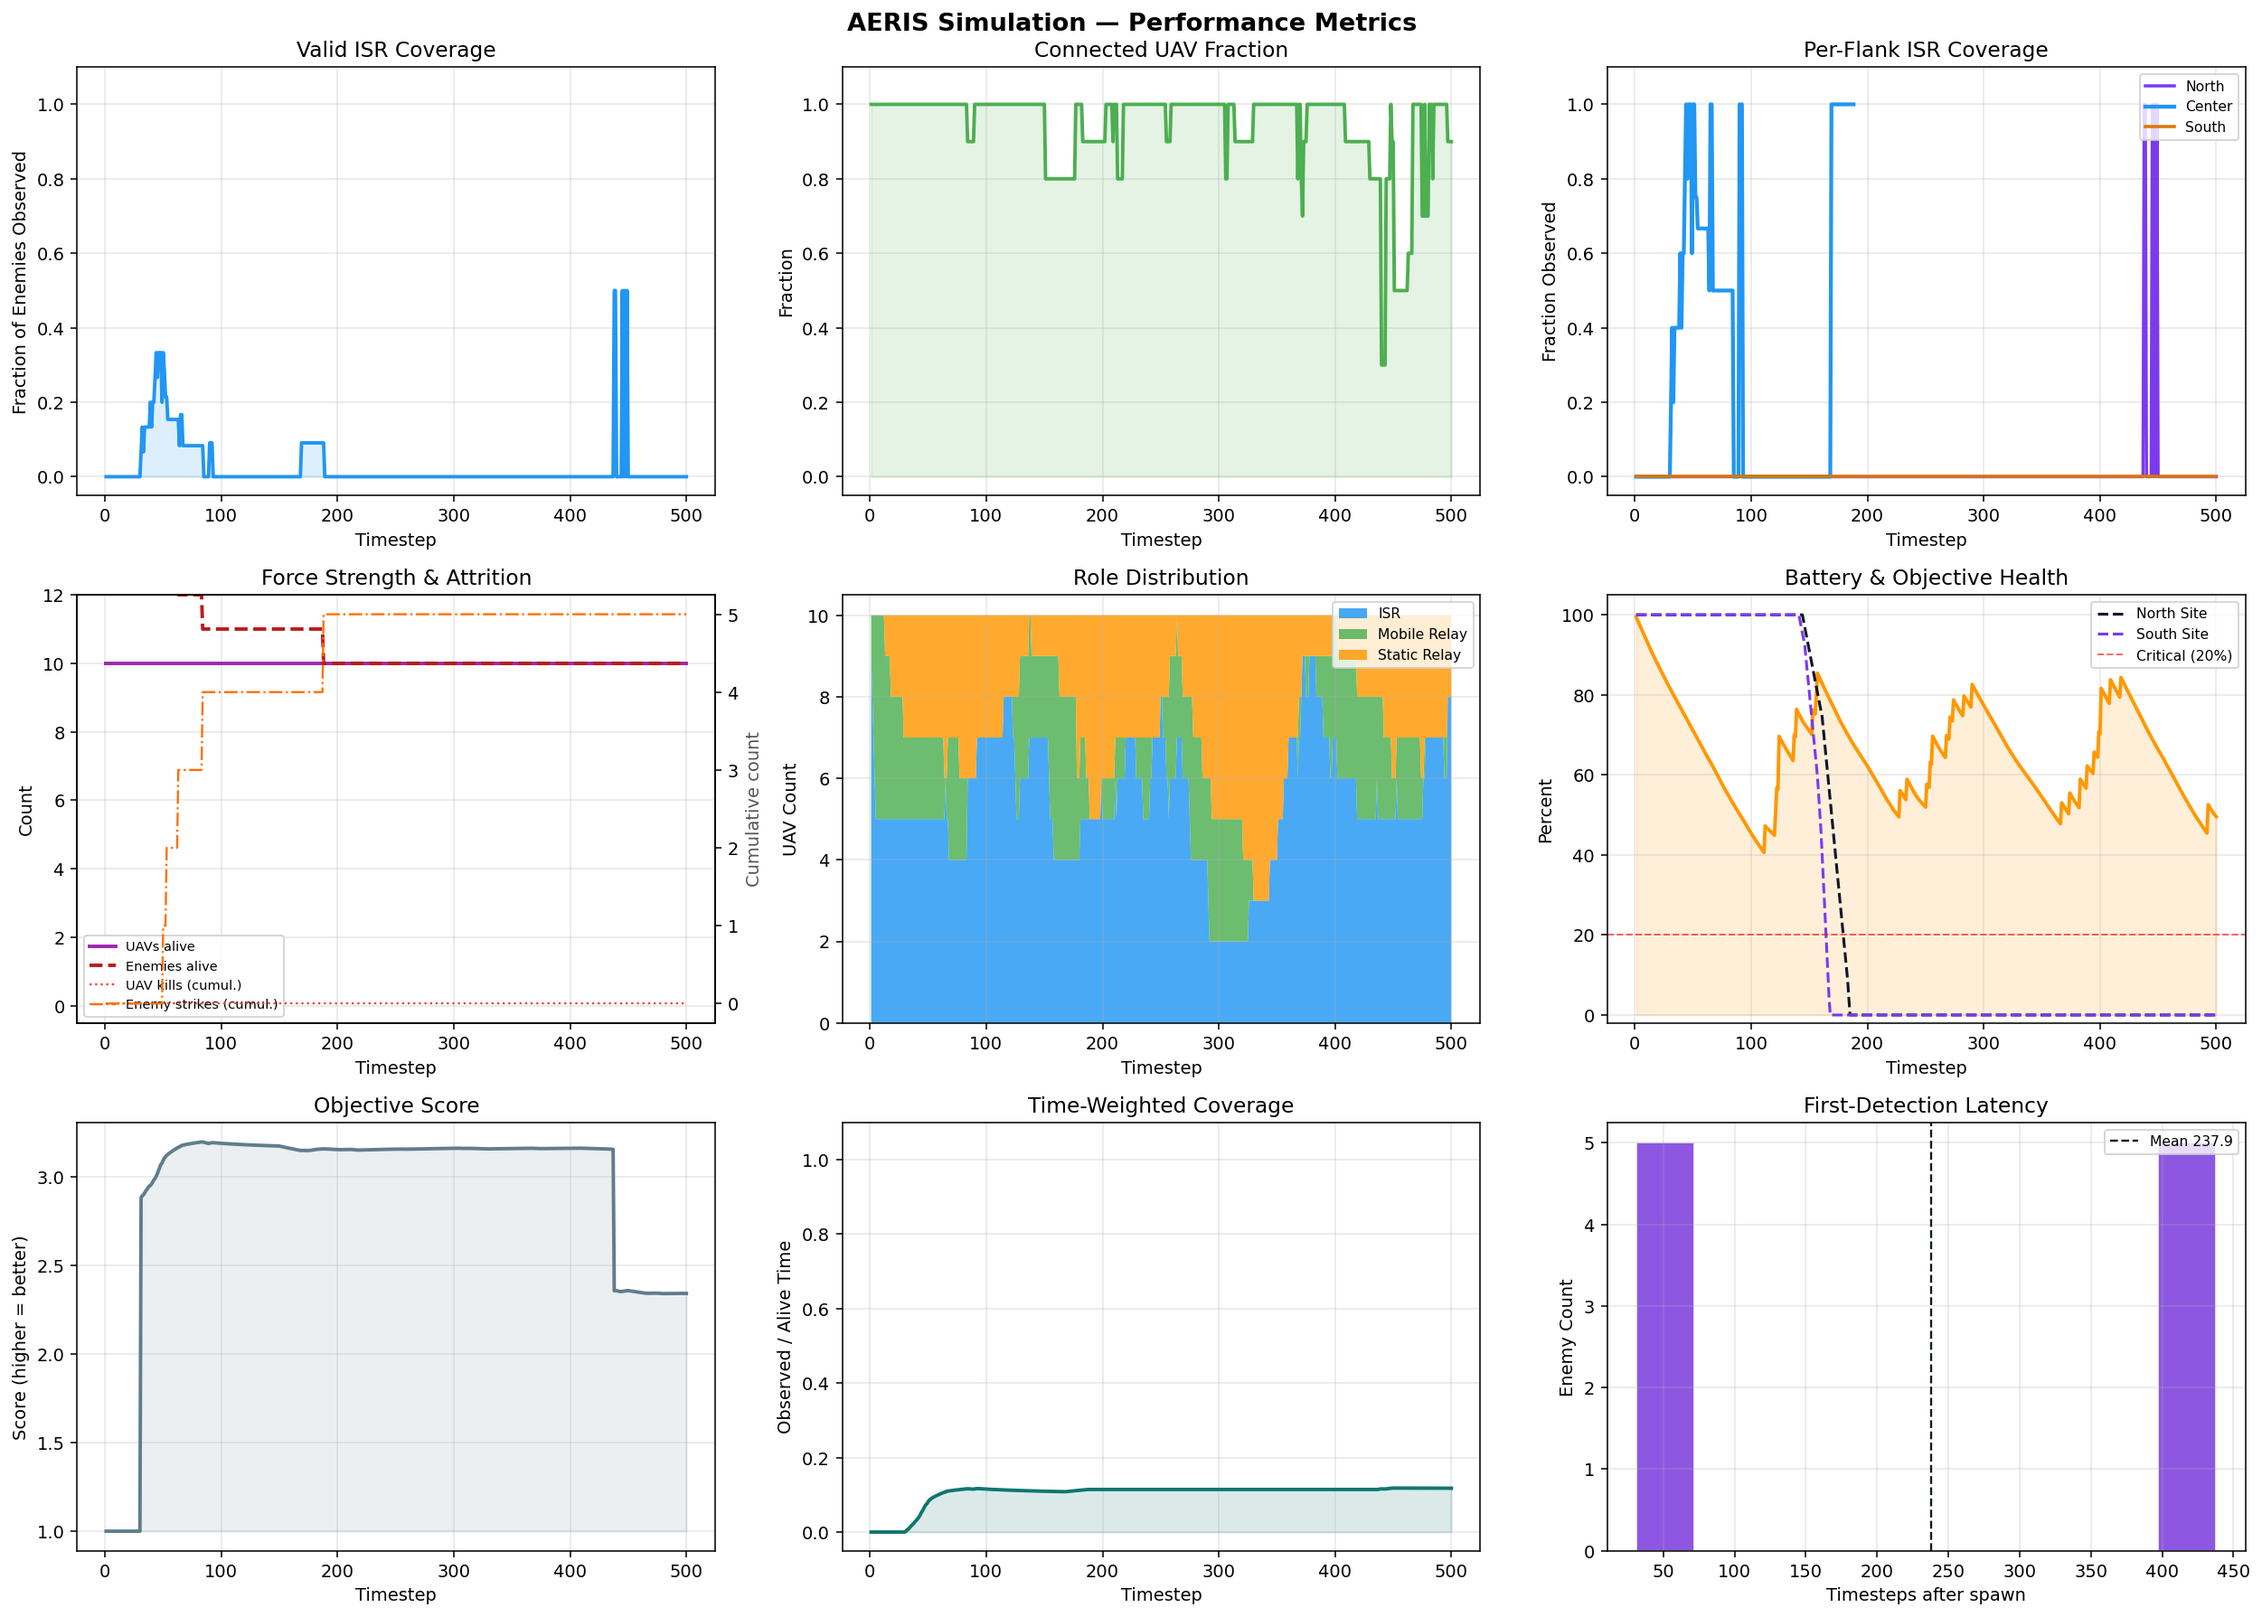
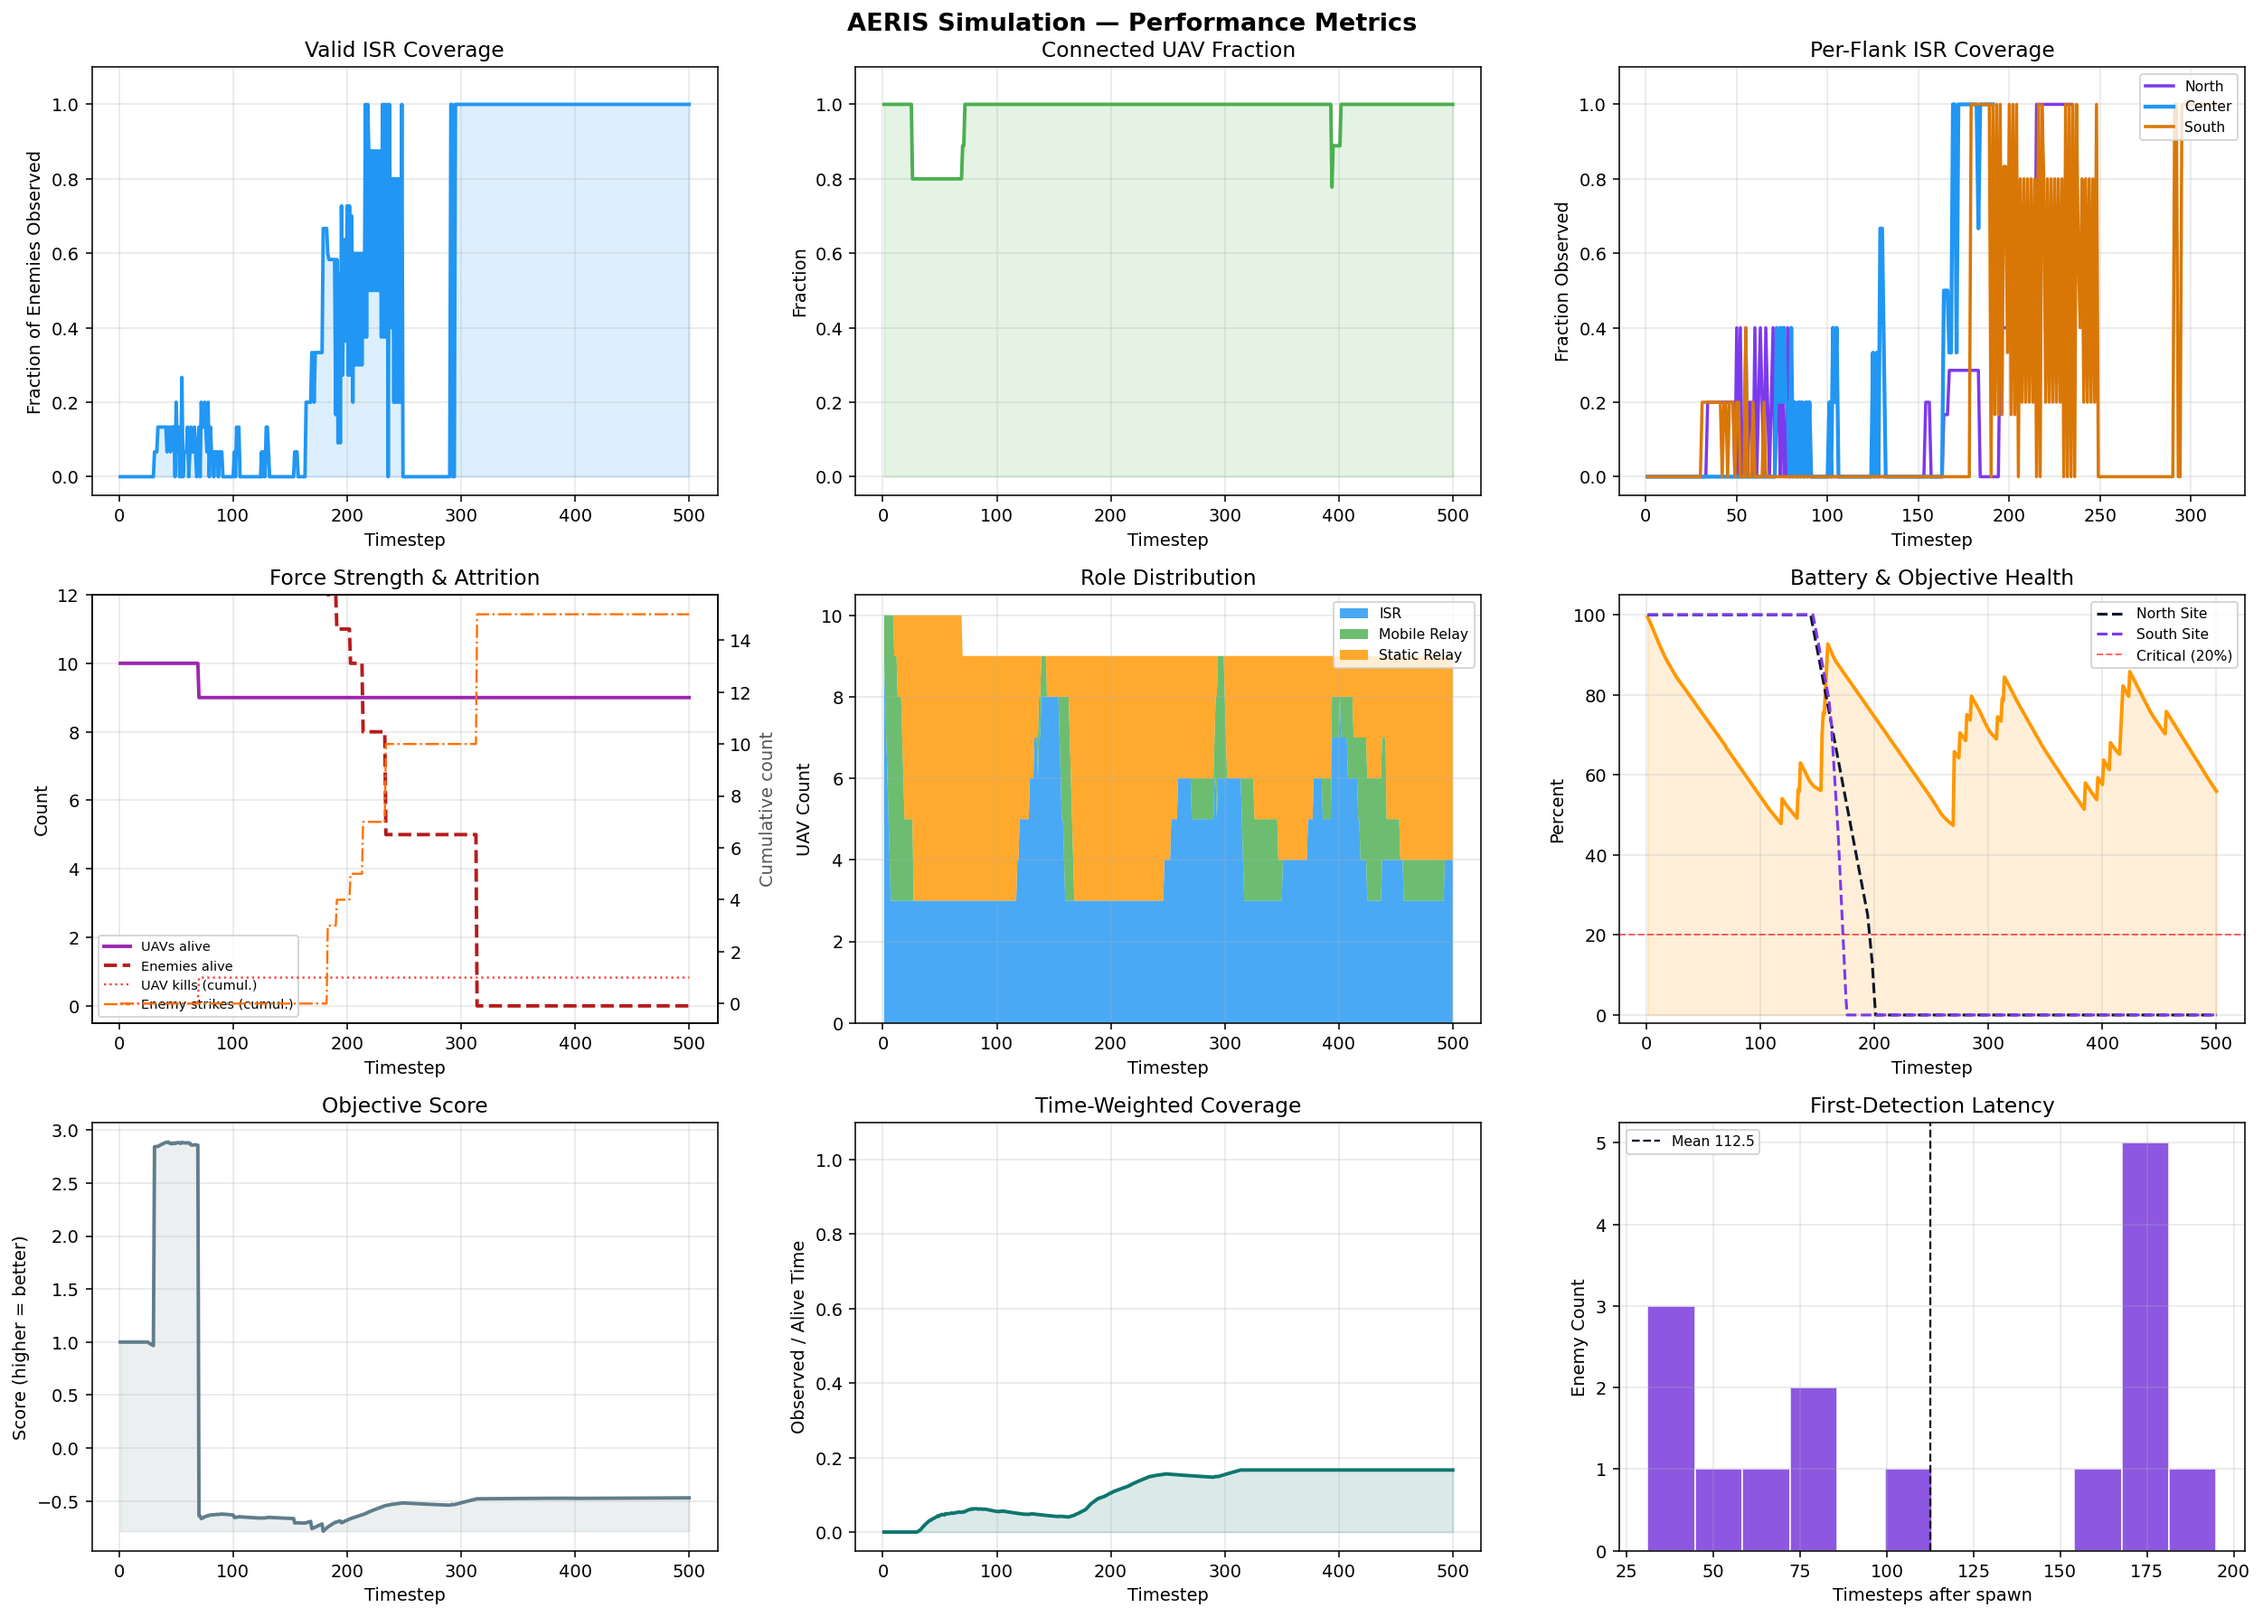
Modified algorithm to deal with adversaries going after other objectives, but now side objectives are still eliminated by enemy

diff --git a/Model Simulation/optimizer.py b/Model Simulation/optimizer.py
@@ -20,6 +20,9 @@ from config import (
     MAX_NEW_RELAYS_PER_STEP, N_ISR_RESERVE,
     ENEMY_SPAWN_X_MAX, BASE_POS,
     W_ISR, W_CONN, W_ENERGY, W_SWITCH,
+    ENABLE_BRANCHING_CHAIN, MAX_BRANCHES, BRANCH_TRIGGER_MIN_ENEMIES,
+    NORTH_FLANK_Y_THRESHOLD, SOUTH_FLANK_Y_THRESHOLD, RELAY_BUDGET_FRACTION,
+    CHAIN_HOP_RANGE, MIN_WAYPOINTS_PER_BRANCH, MAX_WAYPOINTS_PER_BRANCH,
 )
 
 # Relay must be within this distance of its assigned waypoint before going static.
@@ -57,17 +60,146 @@ def _relay_chain_targets(base_pos, target_pos, n_relays: int) -> list:
     ]
 
 
+def _enemy_band(enemy) -> str:
+    if enemy.pos[1] > NORTH_FLANK_Y_THRESHOLD:
+        return "north"
+    if enemy.pos[1] < SOUTH_FLANK_Y_THRESHOLD:
+        return "south"
+    return "center"
+
+
+def _target_for_cluster(enemies) -> np.ndarray:
+    enemy_centroid = np.mean([e.pos for e in enemies], axis=0)
+    target_positions = [
+        np.asarray(e.target_pos, dtype=float)
+        for e in enemies
+        if getattr(e, "target_pos", None) is not None
+    ]
+    if target_positions:
+        objective_centroid = np.mean(target_positions, axis=0)
+        # Defend the approach corridor, not the objective's doorstep.
+        return 0.65 * enemy_centroid + 0.35 * objective_centroid
+    return enemy_centroid
+
+
+def _cluster_enemies_by_band(enemies) -> dict:
+    clusters = {"center": [], "north": [], "south": []}
+    for enemy in enemies:
+        clusters[_enemy_band(enemy)].append(enemy)
+    return {
+        band: members
+        for band, members in clusters.items()
+        if len(members) >= BRANCH_TRIGGER_MIN_ENEMIES
+    }
+
+
+def _branch_priority(name: str) -> int:
+    return {"center": 0, "north": 1, "south": 2}.get(name, 3)
+
+
+def _has_objective_target(enemies) -> bool:
+    return any(getattr(e, "target_pos", None) is not None for e in enemies)
+
+
+def _branch_weight(enemies) -> float:
+    if not enemies:
+        return 0.0
+    objective_members = [
+        e for e in enemies
+        if getattr(e, "target_pos", None) is not None
+    ]
+    if not objective_members:
+        return float(len(enemies))
+    urgency = sum(
+        8_000.0 / max(1_000.0, np.linalg.norm(e.pos - e.target_pos))
+        for e in objective_members
+    )
+    return float(len(enemies)) + urgency
+
+
+def _branch_waypoints(base_pos, enemies, relay_budget: int) -> list:
+    """
+    Build adaptive waypoint branches toward active enemy bands/objective sites.
+    Falls back to the original centerline chain when threats are not split.
+    """
+    if relay_budget <= 0:
+        return []
+
+    fallback_target = np.array([ENEMY_SPAWN_X_MAX, BASE_POS[1]], dtype=float)
+    if not ENABLE_BRANCHING_CHAIN or not enemies:
+        n_relays = max(2, min(5, int(
+            max(0.0, np.linalg.norm(fallback_target - base_pos) - 2_000.0) / CHAIN_HOP_RANGE
+        ) + 1))
+        return _relay_chain_targets(base_pos, fallback_target, min(n_relays, relay_budget))
+
+    clusters = _cluster_enemies_by_band(enemies)
+    if not clusters:
+        return _relay_chain_targets(base_pos, fallback_target, min(2, relay_budget))
+
+    active = sorted(
+        clusters.items(),
+        key=lambda item: (
+            0 if _has_objective_target(item[1]) else 1,
+            _branch_priority(item[0]),
+            -len(item[1]),
+        ),
+    )[:MAX_BRANCHES]
+
+    branches = []
+    for name, members in active:
+        target = _target_for_cluster(members)
+        dist = np.linalg.norm(target - base_pos)
+        n_waypoints = int(max(MIN_WAYPOINTS_PER_BRANCH, dist / CHAIN_HOP_RANGE))
+        n_waypoints = min(MAX_WAYPOINTS_PER_BRANCH, n_waypoints)
+        branches.append({
+            "name": name,
+            "target": target,
+            "n_waypoints": n_waypoints,
+            "weight": max(1.0, _branch_weight(members)),
+        })
+
+    total_requested = sum(b["n_waypoints"] for b in branches)
+    if total_requested <= relay_budget:
+        allocations = {b["name"]: b["n_waypoints"] for b in branches}
+    else:
+        allocations = {}
+        remaining = relay_budget
+        total_weight = sum(b["weight"] for b in branches)
+        for b in branches:
+            share = max(1, round(relay_budget * b["weight"] / total_weight))
+            share = min(share, b["n_waypoints"], remaining)
+            allocations[b["name"]] = share
+            remaining -= share
+        while remaining > 0:
+            candidates = [b for b in branches if allocations[b["name"]] < b["n_waypoints"]]
+            if not candidates:
+                break
+            best = max(candidates, key=lambda b: b["weight"])
+            allocations[best["name"]] += 1
+            remaining -= 1
+
+    waypoints = []
+    for branch in sorted(branches, key=lambda b: _branch_priority(b["name"])):
+        count = allocations.get(branch["name"], 0)
+        waypoints.extend(_relay_chain_targets(base_pos, branch["target"], count))
+    return waypoints
+
+
 def _assign_relays_to_targets(relay_uavs, targets: list) -> dict:
     """
-    Match relay UAVs to chain targets in distance-sorted order.
-    Closest relay (by distance from map origin) maps to closest target.
+    Greedily match each target to the nearest unassigned relay.
     """
     if not relay_uavs or not targets:
         return {}
-    origin   = np.zeros(2)
-    r_sorted = sorted(relay_uavs, key=lambda u: np.linalg.norm(u.pos - origin))
-    t_sorted = sorted(targets,    key=lambda p: np.linalg.norm(p  - origin))
-    return {r.id: t for r, t in zip(r_sorted, t_sorted)}
+    remaining = list(relay_uavs)
+    assignment = {}
+    for target in targets:
+        if not remaining:
+            break
+        best = min(remaining, key=lambda u: np.linalg.norm(u.pos - target))
+        assignment[best.id] = target
+        remaining.remove(best)
+    return assignment
 
 
 def _wp_covered(wp, static_relays) -> bool:
@@ -91,17 +223,13 @@ def greedy_policy(uavs, connected_ids: set, enemies, base, terrain, G) -> None:
     base_pos = np.array(base.pos, dtype=float)
 
     # ------------------------------------------------------------------
-    # 2. Fixed strategic chain target = far edge of enemy spawn zone.
-    #    A fixed target keeps waypoint positions stable for the full sim.
+    # 2. Adaptive branch targets. Split relay waypoints across active
+    #    north/center/south threat bands, falling back to the old centerline
+    #    chain when the situation is not multi-axis.
     # ------------------------------------------------------------------
-    target_pos = np.array([ENEMY_SPAWN_X_MAX, BASE_POS[1]], dtype=float)
-
-    chain_dist    = max(0.0, np.linalg.norm(target_pos - base_pos) - base.comm_range)
-    HOP_RANGE     = 1_300.0
-    n_relays_need = max(2, min(5, int(chain_dist / HOP_RANGE) + 1))
-    n_relays_need = min(n_relays_need, max(1, len(alive) // 2))
-
-    relay_targets  = _relay_chain_targets(base_pos, target_pos, n_relays_need)
+    relay_budget = int(max(1, len(alive) * RELAY_BUDGET_FRACTION))
+    relay_budget = min(relay_budget, max(1, len(alive) - N_ISR_RESERVE))
+    relay_targets = _branch_waypoints(base_pos, enemies, relay_budget)
     static_relays  = [u for u in alive if u.mode == UAVMode.STATIC_RELAY]
     mobile_relays  = [u for u in alive if u.mode == UAVMode.MOBILE_RELAY]
 
@@ -111,7 +239,8 @@ def greedy_policy(uavs, connected_ids: set, enemies, base, terrain, G) -> None:
     # ------------------------------------------------------------------
     # 3. Promote ISR UAVs to fill open slots that have no mobile relay
     # ------------------------------------------------------------------
-    n_short = max(0, len(open_waypoints) - len(mobile_relays))
+    relay_slots = max(0, relay_budget - len(static_relays) - len(mobile_relays))
+    n_short = min(max(0, len(open_waypoints) - len(mobile_relays)), relay_slots)
     if n_short > 0:
         all_isr  = sorted([u for u in alive if u.mode == UAVMode.ISR],
                           key=lambda u: u.battery)
@@ -167,11 +296,44 @@ def greedy_policy(uavs, connected_ids: set, enemies, base, terrain, G) -> None:
                      if u.mode in (UAVMode.MOBILE_RELAY, UAVMode.STATIC_RELAY)}
     relay_uavs    = [u for u in alive if u.id in relay_set]
 
-    # Greedy one-to-one matching
+    # Band-aware matching: seed one ISR per active threat band, then fill the
+    # rest greedily. This keeps flank pressure from being starved by centerline
+    # nearest-neighbor assignments.
     remaining_enemy_idx = list(range(len(enemies)))
+    remaining_isr = list(isr_connected)
     isr_target: dict[int, int] = {}
 
-    for uav in sorted(isr_connected,
+    active_bands = sorted(
+        {_enemy_band(enemy) for enemy in enemies},
+        key=lambda band: (
+            0 if any(
+                _enemy_band(e) == band and getattr(e, "target_pos", None) is not None
+                for e in enemies
+            ) else 1,
+            min(
+                (
+                    np.linalg.norm(e.pos - e.target_pos)
+                    for e in enemies
+                    if _enemy_band(e) == band and getattr(e, "target_pos", None) is not None
+                ),
+                default=float("inf"),
+            ),
+            _branch_priority(band),
+        ),
+    )
+    band_order = active_bands or ["center", "north", "south"]
+    for band in band_order:
+        band_indices = [i for i in remaining_enemy_idx if _enemy_band(enemies[i]) == band]
+        if not band_indices or not remaining_isr:
+            continue
+        band_center = np.mean([enemies[i].pos for i in band_indices], axis=0)
+        uav = min(remaining_isr, key=lambda u: np.linalg.norm(u.pos - band_center))
+        best_idx = min(band_indices, key=lambda i: np.linalg.norm(uav.pos - enemies[i].pos))
+        isr_target[uav.id] = best_idx
+        remaining_isr.remove(uav)
+        remaining_enemy_idx.remove(best_idx)
+
+    for uav in sorted(remaining_isr,
                       key=lambda u: min(
                           (np.linalg.norm(u.pos - enemies[i].pos)
                            for i in remaining_enemy_idx),

diff --git a/Model Simulation/config.py b/Model Simulation/config.py
@@ -69,6 +69,17 @@ MIN_ENEMY_DIST_FOR_STATIC  = 1_100.0  # relay 1 (1300m from closest enemy) can g
 STEPS_MOBILE_BEFORE_STATIC = 8
 STATIC_BATTERY_THRESHOLD   = 50.0
 
+# --- Adaptive relay-chain planning ---
+ENABLE_BRANCHING_CHAIN = True
+MAX_BRANCHES = 3
+BRANCH_TRIGGER_MIN_ENEMIES = 2
+NORTH_FLANK_Y_THRESHOLD = 6500.0
+SOUTH_FLANK_Y_THRESHOLD = 3500.0
+RELAY_BUDGET_FRACTION = 0.7
+CHAIN_HOP_RANGE = 1_300.0
+MIN_WAYPOINTS_PER_BRANCH = 1
+MAX_WAYPOINTS_PER_BRANCH = 3
+
 # --- Enemy spawn zone ---
 # Enemies spawn far from base (x=6000-9000) to give allied forces time to set up
 # the relay chain before enemies close in.  Tight y-band keeps all enemies inside
